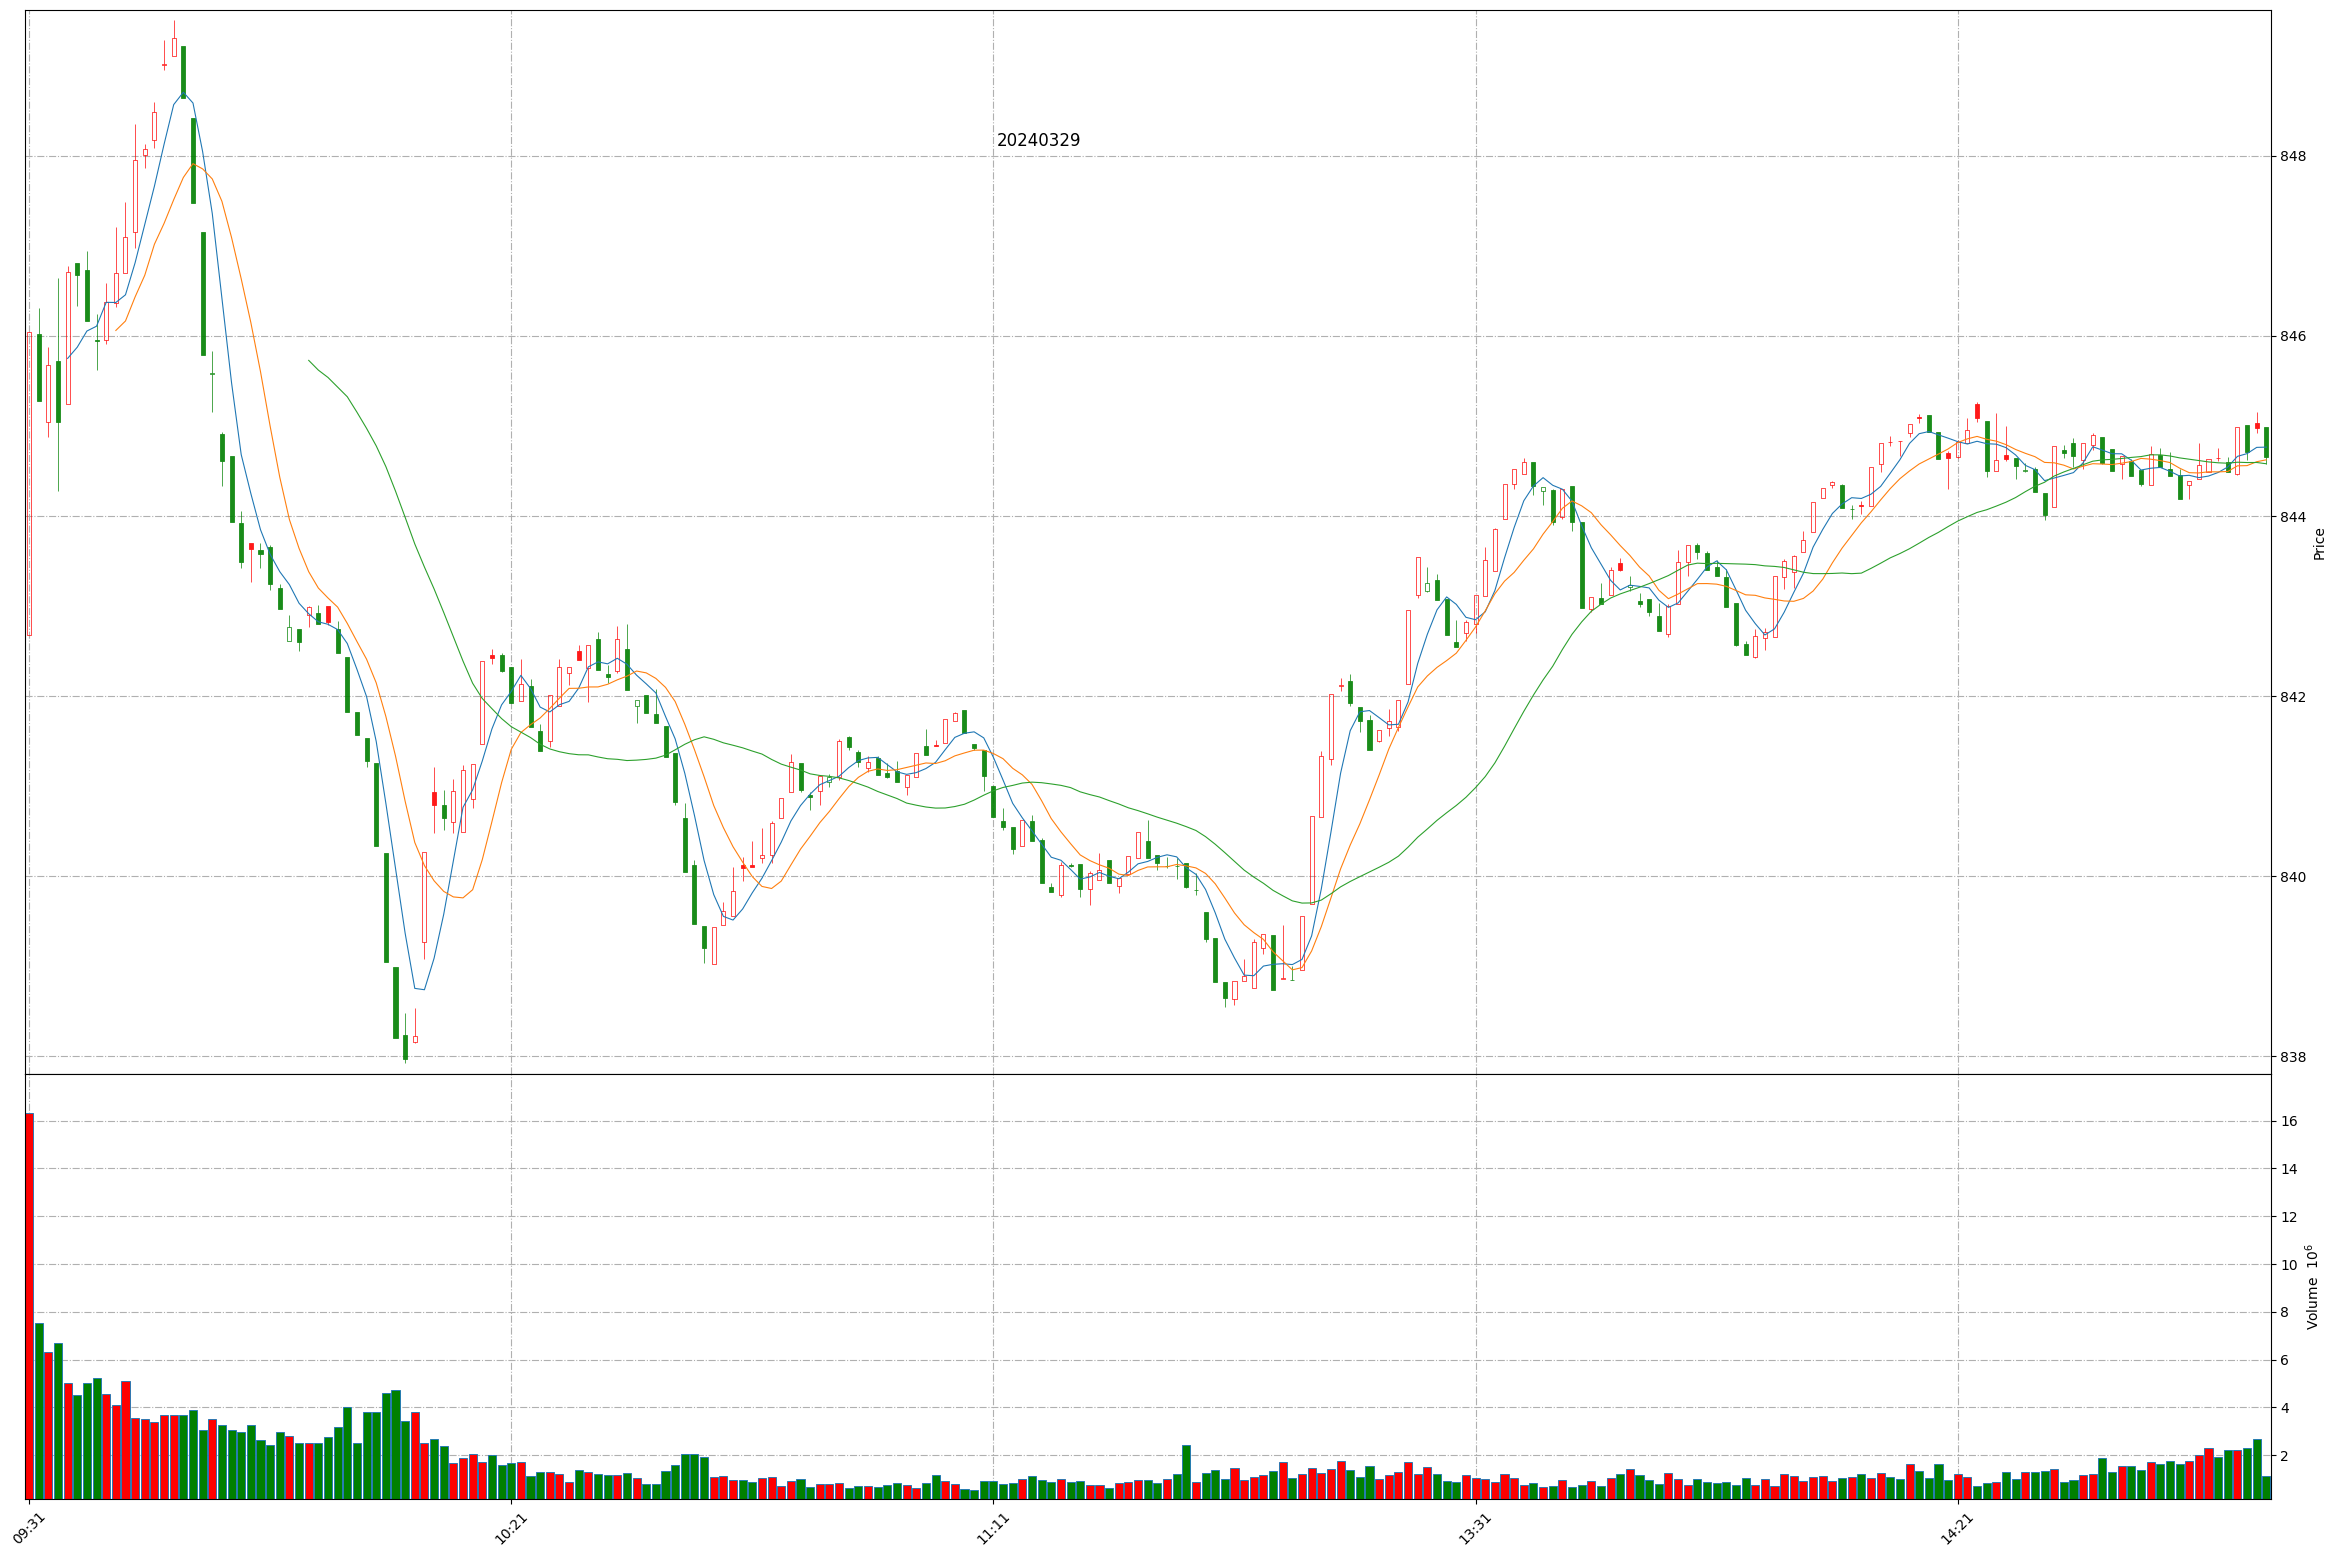
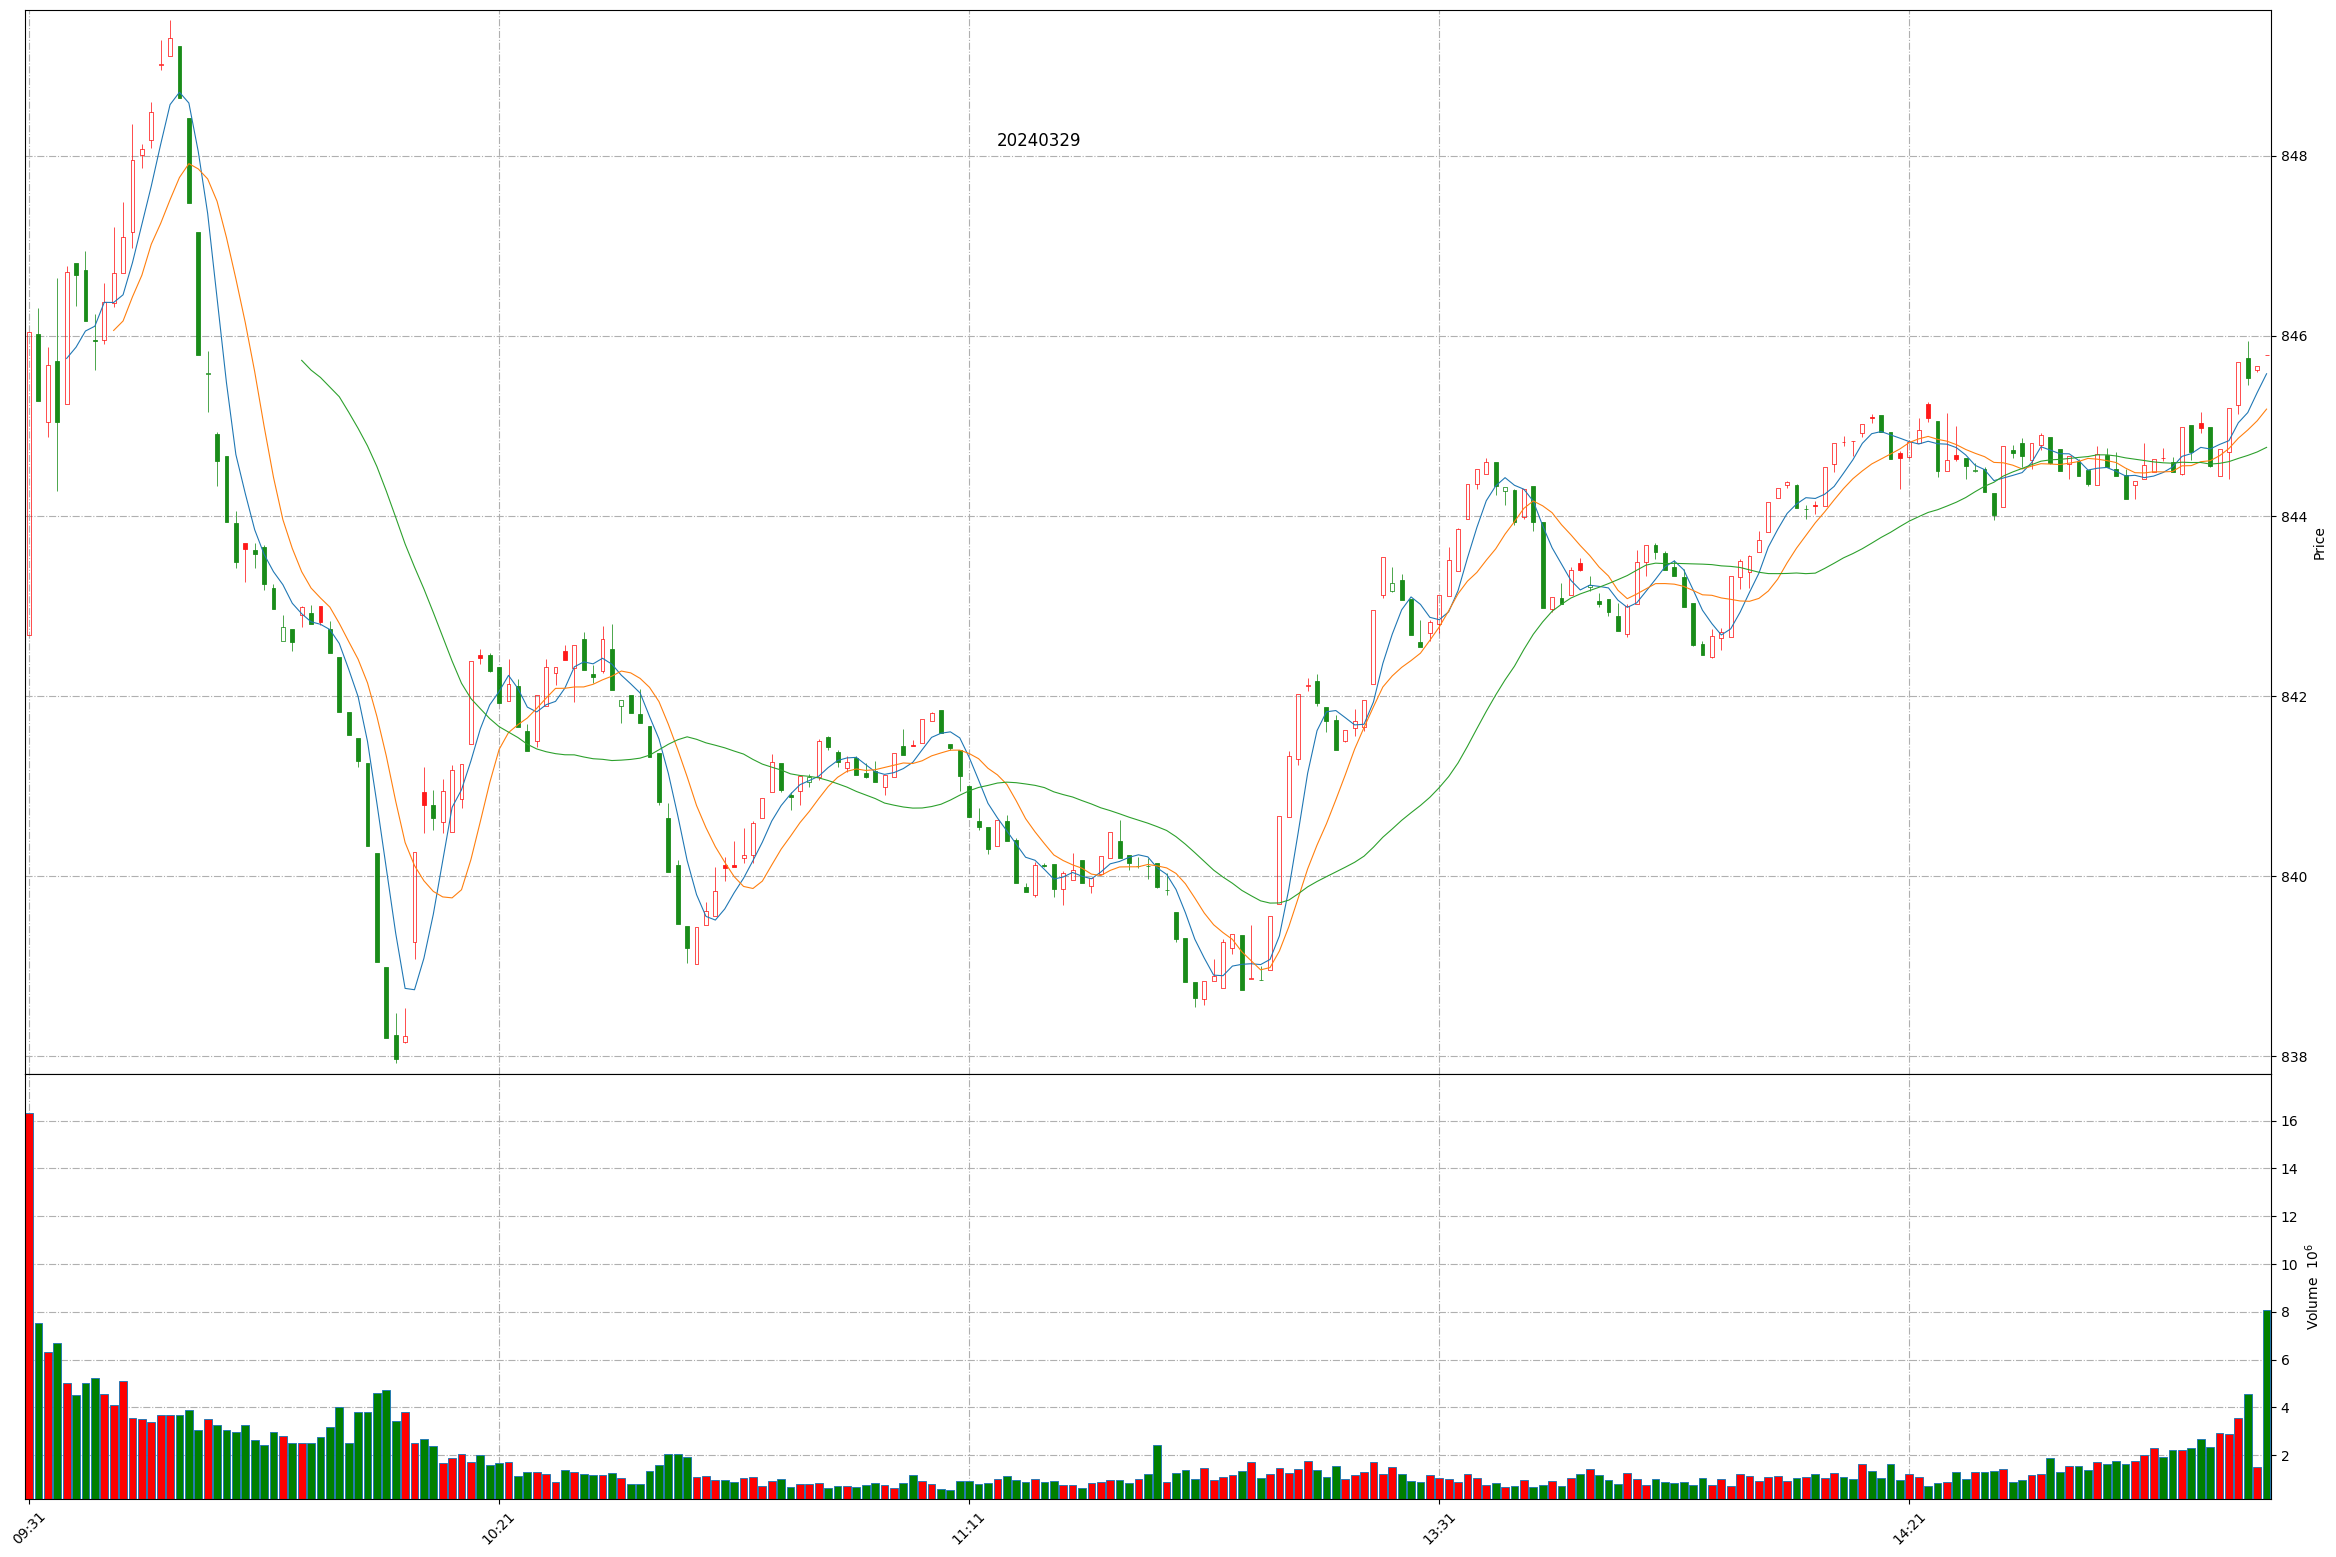
Github action update at 2024-03-29 15:10:41.

diff --git a/README.md b/README.md
@@ -1,11 +1,11 @@
 
 # Daily-A-share-market-quotes 每日 A 股指数（5min 更新）- 20240329
 
-### 上证指数 20240329 14:52
+### 上证指数 20240329 15:10
 ![](./fig/2024/3/20240329-sh000001.png)
 
-### 深证成指 20240329 14:52
+### 深证成指 20240329 15:10
 ![](./fig/2024/3/20240329-sz399001.png)
 
-### 北证50 20240329 14:52
+### 北证50 20240329 15:10
 ![](./fig/2024/3/20240329-bj899050.png)
